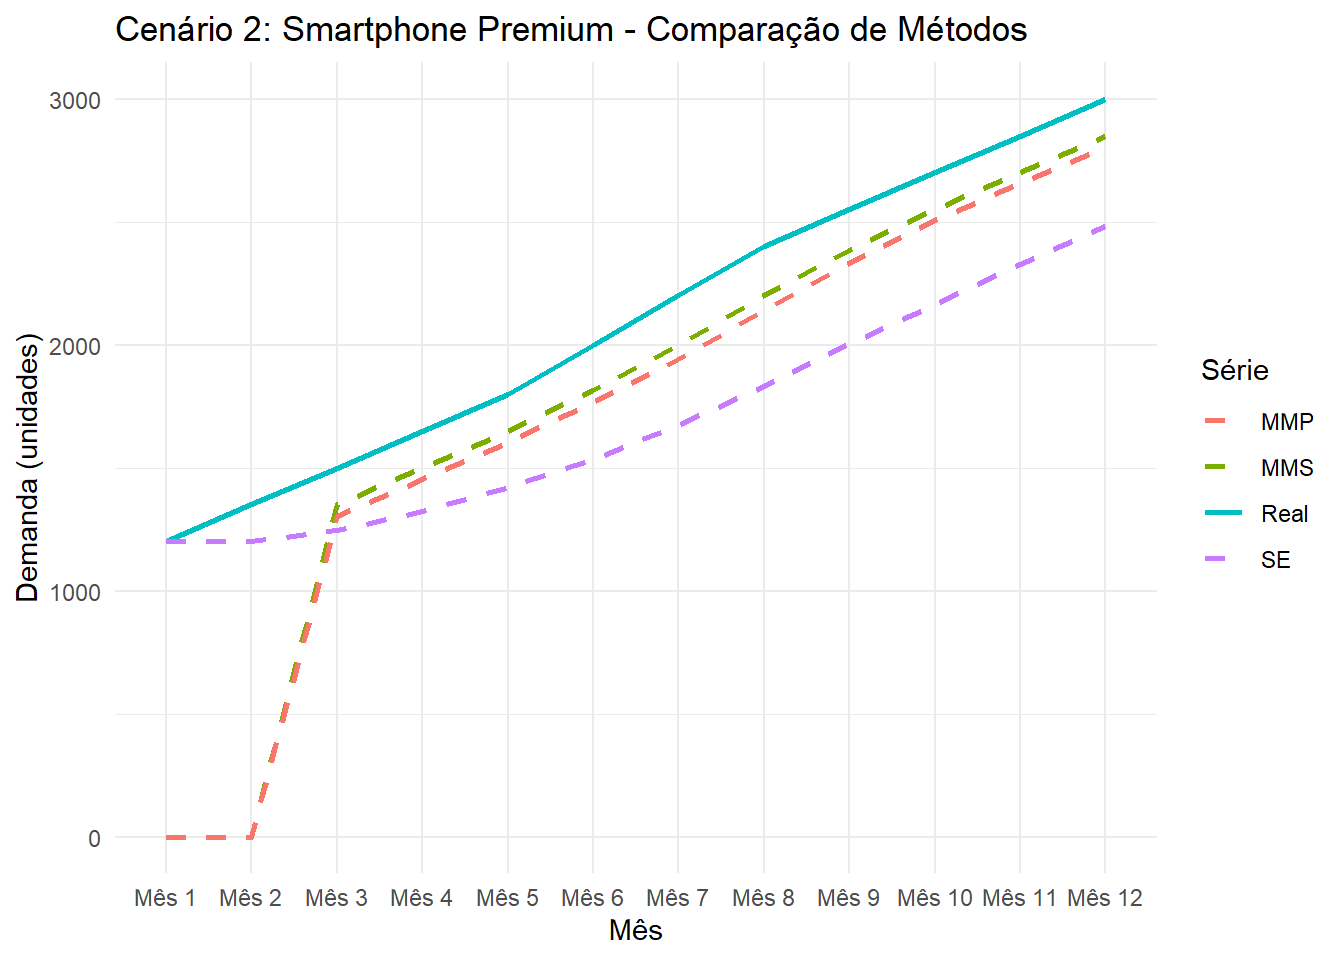
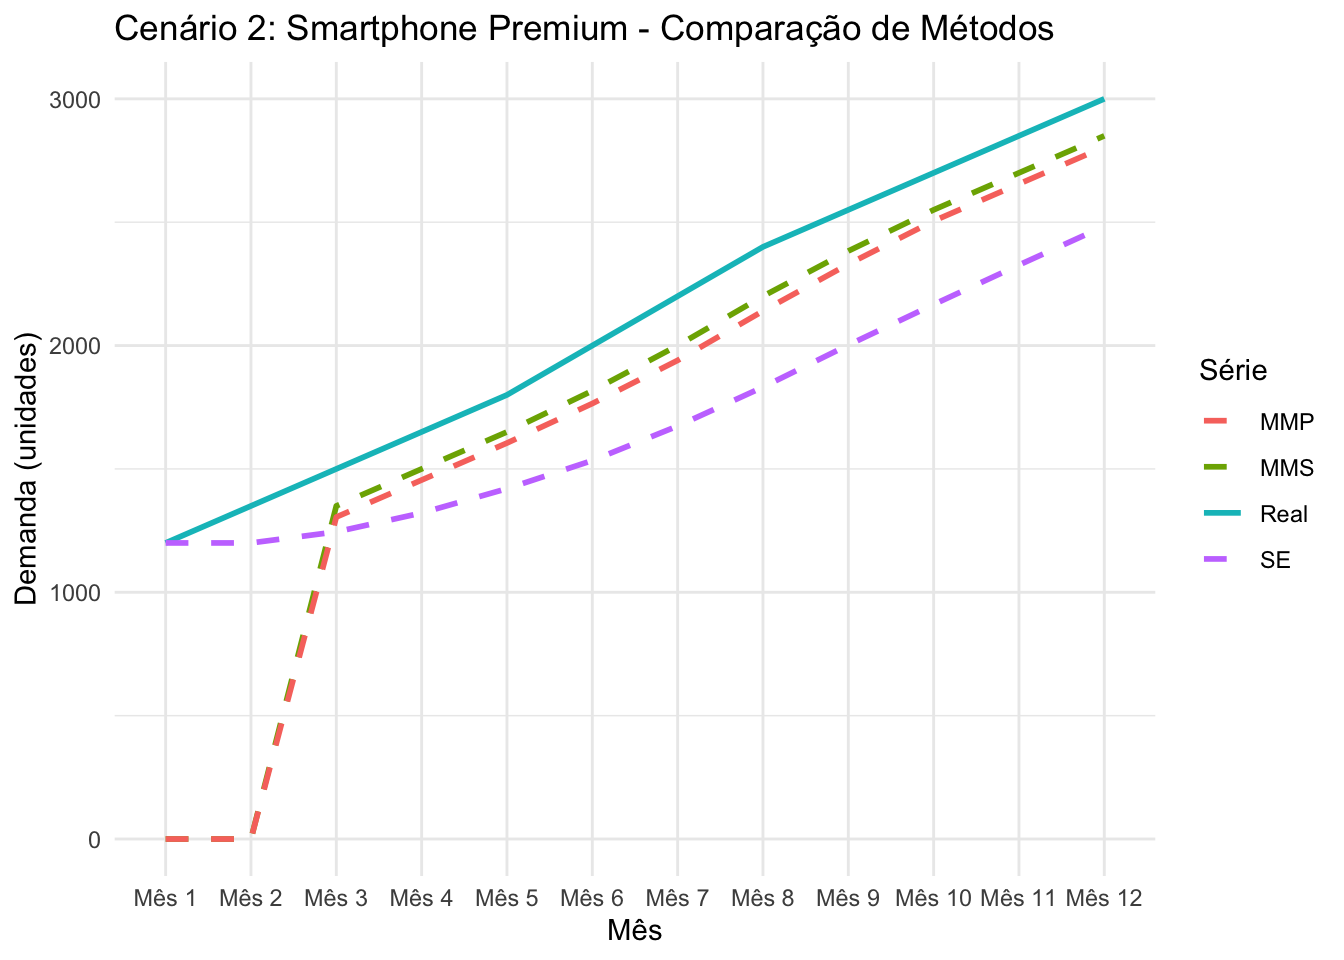
push

diff --git a/content/disciplinas/adm_prod_mat/aa02_02.html b/content/disciplinas/adm_prod_mat/aa02_02.html
@@ -28,9 +28,10 @@ weight: 30
 <pre class="r"><code># LAYOUT DE IMPRESSÃO EM DUAS PÁGINAS - TABELA CORRIGIDA ------------------
 
 library(gridExtra)</code></pre>
+<pre><code>## Warning: package &#39;gridExtra&#39; was built under R version 4.6.1</code></pre>
 <pre><code>## 
-## Anexando pacote: &#39;gridExtra&#39;</code></pre>
-<pre><code>## O seguinte objeto é mascarado por &#39;package:dplyr&#39;:
+## Attaching package: &#39;gridExtra&#39;</code></pre>
+<pre><code>## The following object is masked from &#39;package:dplyr&#39;:
 ## 
 ##     combine</code></pre>
 <pre class="r"><code>library(grid)
@@ -113,34 +114,54 @@ criar_pagina1_calculos &lt;- function(cenario_num, titulo, descricao, dados_reai
 }
 
 # FUNÇÃO PARA PÁGINA 2: GRÁFICO DE PREVISÕES ------------------------------
+#----------------------
 criar_pagina2_grafico &lt;- function(cenario_num, titulo, dados_reais) {
+  
+  # Adicionar o 13º mês para previsão
+  meses_completos &lt;- c(dados_reais$Mês, &quot;M13&quot;)
+  x_breaks &lt;- 1:13
+  x_labels &lt;- meses_completos
+  
+  # Calcular limite y considerando possível aumento na previsão
+  y_max &lt;- max(dados_reais$Demanda_Real) * 1.4
   
   # Criar gráfico com eixos e pontos da demanda real
   grafico_previsoes &lt;- ggplot() +
     # Grade de fundo
     theme_bw() +
     
-    # Eixos e limites
-    scale_x_continuous(breaks = 1:12, labels = dados_reais$Mês, expand = c(0.02, 0.02)) +
-    scale_y_continuous(limits = c(0, max(dados_reais$Demanda_Real) * 1.4)) +
+    # Eixos e limites - agora até 13 meses
+    scale_x_continuous(breaks = 1:13, labels = meses_completos, expand = c(0.02, 0.02)) +
+    scale_y_continuous(limits = c(0, y_max)) +
     
-    # Pontos da demanda real
+    # Pontos da demanda real (apenas até o 12º mês)
     geom_point(aes(x = 1:12, y = dados_reais$Demanda_Real), 
                size = 3, color = &quot;black&quot;, shape = 16) +
     
-    # Linha da demanda real
+    # Linha da demanda real (apenas até o 12º mês)
     geom_line(aes(x = 1:12, y = dados_reais$Demanda_Real), 
               color = &quot;black&quot;, size = 1, linetype = &quot;solid&quot;) +
     
+    # Área sombreada para indicar período de previsão futura (mês 13)
+    annotate(&quot;rect&quot;, xmin = 12.5, xmax = 13.5, ymin = 0, ymax = y_max,
+             fill = &quot;yellow&quot;, alpha = 0.2) +
+    
+    # Linha vertical para separar histórico de previsão
+    geom_vline(xintercept = 12.5, linetype = &quot;dashed&quot;, color = &quot;red&quot;, size = 0.8) +
+    
+    # Texto indicando área de previsão
+    annotate(&quot;text&quot;, x = 12.75, y = y_max * 0.95, 
+             label = &quot;PREVISÃO\nMÊS 13&quot;, 
+             color = &quot;red&quot;, fontface = &quot;bold&quot;, size = 4, hjust = 0.5) +
+    
     # Áreas para desenhar as previsões (linhas tracejadas como guia)
-    geom_hline(yintercept = seq(0, max(dados_reais$Demanda_Real) * 1.3, 
-                               length.out = 10), 
-               color = &quot;gray90&quot;, size = 0.2) +
+    geom_hline(yintercept = seq(0, y_max, length.out = 15), 
+               color = &quot;gray90&quot;, size = 0.1, alpha = 0.5) +
     
     # Títulos e labels
     labs(
       title = paste(&quot;CENÁRIO&quot;, cenario_num, &quot;:&quot;, titulo, &quot;- REGISTRO DAS PREVISÕES&quot;),
-      subtitle = &quot;Demanda Real (linha preta) - Desenhe as previsões usando as cores indicadas&quot;,
+      subtitle = &quot;Demanda Real (linha preta) - Desenhe as previsões incluindo o Mês 13 (previsão futura)&quot;,
       x = &quot;Meses&quot;,
       y = &quot;Demanda&quot;
     ) +
@@ -154,25 +175,32 @@ criar_pagina2_grafico &lt;- function(cenario_num, titulo, dados_reais) {
     ) +
     
     # Legenda interativa para cores
-    annotate(&quot;text&quot;, x = 1, y = max(dados_reais$Demanda_Real) * 1.35, 
+    annotate(&quot;text&quot;, x = 0.5, y = y_max * 0.95, 
              label = &quot;LEGENDA DE CORES:&quot;, hjust = 0, fontface = &quot;bold&quot;, size = 4) +
-    annotate(&quot;text&quot;, x = 1, y = max(dados_reais$Demanda_Real) * 1.30, 
+    annotate(&quot;text&quot;, x = 0.5, y = y_max * 0.90, 
              label = &quot;● MMS (Média Móvel Simples) → Use VERMELHO&quot;, hjust = 0, size = 3.5) +
-    annotate(&quot;text&quot;, x = 1, y = max(dados_reais$Demanda_Real) * 1.26, 
+    annotate(&quot;text&quot;, x = 0.5, y = y_max * 0.86, 
              label = &quot;● MMP (Média Móvel Ponderada) → Use AZUL&quot;, hjust = 0, size = 3.5) +
-    annotate(&quot;text&quot;, x = 1, y = max(dados_reais$Demanda_Real) * 1.22, 
+    annotate(&quot;text&quot;, x = 0.5, y = y_max * 0.82, 
              label = &quot;● SE (Suavização Exponencial) → Use VERDE&quot;, hjust = 0, size = 3.5) +
+    annotate(&quot;text&quot;, x = 0.5, y = y_max * 0.77, 
+             label = &quot;--- Linha pontilhada: Separa histórico de previsão&quot;, 
+             hjust = 0, size = 3, color = &quot;red&quot;) +
     
     # Espaço para anotações
-    annotate(&quot;text&quot;, x = 8, y = max(dados_reais$Demanda_Real) * 1.30, 
+    annotate(&quot;text&quot;, x = 8, y = y_max * 0.95, 
              label = &quot;OBSERVAÇÕES:&quot;, hjust = 0, fontface = &quot;bold&quot;, size = 4) +
-    annotate(&quot;text&quot;, x = 8, y = max(dados_reais$Demanda_Real) * 1.26, 
+    annotate(&quot;text&quot;, x = 8, y = y_max * 0.91, 
              label = &quot;• Qual método acompanhou melhor a demanda?&quot;, hjust = 0, size = 3) +
-    annotate(&quot;text&quot;, x = 8, y = max(dados_reais$Demanda_Real) * 1.20, 
-             label = &quot;• Justifique sua resposta:&quot;, hjust = 0, size = 3)
+    annotate(&quot;text&quot;, x = 8, y = y_max * 0.87, 
+             label = &quot;• Qual previsão para o Mês 13?&quot;, hjust = 0, size = 3) +
+    annotate(&quot;text&quot;, x = 8, y = y_max * 0.83, 
+             label = &quot;• Justifique sua resposta:&quot;, hjust = 0, size = 3) 
+
   
   return(grafico_previsoes)
 }
+
 
 
 # VERSÃO COMBINADA (DUAS PÁGINAS EM UM PDF) -------------------------------
@@ -193,20 +221,8 @@ criar_pdf_completo &lt;- function(cenario_num, titulo, dados_reais, nome_arquivo
 # Gerar PDFs completos
 criar_pdf_completo(2, &quot;Smartphone Premium&quot;, df2, &quot;Cenario2_Smartphone_Completo.pdf&quot;) </code></pre>
 <pre><code>## Warning in grid.Call.graphics(C_text, as.graphicsAnnot(x$label), x$x, x$y, :
-## conversion failure on &#39;FÓRMULAS: MMS = (Dₜ + Dₜ₋₁ + Dₜ₋₂)/3 | MMP = (0.5×Dₜ +
-## 0.3×Dₜ₋₁ + 0.2×Dₜ₋₂) | SE = α×Dₜ + (1-α)×Fₜ&#39; in &#39;mbcsToSbcs&#39;: for ₜ (U+209C)
-## Warning in grid.Call.graphics(C_text, as.graphicsAnnot(x$label), x$x, x$y, :
-## conversion failure on &#39;FÓRMULAS: MMS = (Dₜ + Dₜ₋₁ + Dₜ₋₂)/3 | MMP = (0.5×Dₜ +
-## 0.3×Dₜ₋₁ + 0.2×Dₜ₋₂) | SE = α×Dₜ + (1-α)×Fₜ&#39; in &#39;mbcsToSbcs&#39;: for ₜ (U+209C)</code></pre>
-<pre><code>## Warning in grid.Call.graphics(C_text, as.graphicsAnnot(x$label), x$x, x$y, :
-## conversion failure on &#39;FÓRMULAS: MMS = (Dₜ + Dₜ₋₁ + Dₜ₋₂)/3 | MMP = (0.5×Dₜ +
-## 0.3×Dₜ₋₁ + 0.2×Dₜ₋₂) | SE = α×Dₜ + (1-α)×Fₜ&#39; in &#39;mbcsToSbcs&#39;: for ₋ (U+208B)</code></pre>
-<pre><code>## Warning in grid.Call.graphics(C_text, as.graphicsAnnot(x$label), x$x, x$y, :
-## conversion failure on &#39;FÓRMULAS: MMS = (Dₜ + Dₜ₋₁ + Dₜ₋₂)/3 | MMP = (0.5×Dₜ +
-## 0.3×Dₜ₋₁ + 0.2×Dₜ₋₂) | SE = α×Dₜ + (1-α)×Fₜ&#39; in &#39;mbcsToSbcs&#39;: for ₜ (U+209C)</code></pre>
-<pre><code>## Warning in grid.Call.graphics(C_text, as.graphicsAnnot(x$label), x$x, x$y, :
-## conversion failure on &#39;FÓRMULAS: MMS = (Dₜ + Dₜ₋₁ + Dₜ₋₂)/3 | MMP = (0.5×Dₜ +
-## 0.3×Dₜ₋₁ + 0.2×Dₜ₋₂) | SE = α×Dₜ + (1-α)×Fₜ&#39; in &#39;mbcsToSbcs&#39;: for ₋ (U+208B)</code></pre>
+## conversion failure on &#39; 1. Calcule as previsões usando MMS (n=3), MMP (pesos:
+## 0.5, 0.3, 0.2) e SE (α=0.3)&#39; in &#39;mbcsToSbcs&#39;: for α (U+03B1)</code></pre>
 <pre><code>## Warning in grid.Call.graphics(C_text, as.graphicsAnnot(x$label), x$x, x$y, :
 ## conversion failure on &#39;FÓRMULAS: MMS = (Dₜ + Dₜ₋₁ + Dₜ₋₂)/3 | MMP = (0.5×Dₜ +
 ## 0.3×Dₜ₋₁ + 0.2×Dₜ₋₂) | SE = α×Dₜ + (1-α)×Fₜ&#39; in &#39;mbcsToSbcs&#39;: for ₜ (U+209C)
@@ -218,14 +234,47 @@ criar_pdf_completo(2, &quot;Smartphone Premium&quot;, df2, &quot;Cenario2_Smartp
 ## 0.3×Dₜ₋₁ + 0.2×Dₜ₋₂) | SE = α×Dₜ + (1-α)×Fₜ&#39; in &#39;mbcsToSbcs&#39;: for ₋ (U+208B)</code></pre>
 <pre><code>## Warning in grid.Call.graphics(C_text, as.graphicsAnnot(x$label), x$x, x$y, :
 ## conversion failure on &#39;FÓRMULAS: MMS = (Dₜ + Dₜ₋₁ + Dₜ₋₂)/3 | MMP = (0.5×Dₜ +
+## 0.3×Dₜ₋₁ + 0.2×Dₜ₋₂) | SE = α×Dₜ + (1-α)×Fₜ&#39; in &#39;mbcsToSbcs&#39;: for ₁ (U+2081)</code></pre>
+<pre><code>## Warning in grid.Call.graphics(C_text, as.graphicsAnnot(x$label), x$x, x$y, :
+## conversion failure on &#39;FÓRMULAS: MMS = (Dₜ + Dₜ₋₁ + Dₜ₋₂)/3 | MMP = (0.5×Dₜ +
 ## 0.3×Dₜ₋₁ + 0.2×Dₜ₋₂) | SE = α×Dₜ + (1-α)×Fₜ&#39; in &#39;mbcsToSbcs&#39;: for ₜ (U+209C)</code></pre>
 <pre><code>## Warning in grid.Call.graphics(C_text, as.graphicsAnnot(x$label), x$x, x$y, :
 ## conversion failure on &#39;FÓRMULAS: MMS = (Dₜ + Dₜ₋₁ + Dₜ₋₂)/3 | MMP = (0.5×Dₜ +
 ## 0.3×Dₜ₋₁ + 0.2×Dₜ₋₂) | SE = α×Dₜ + (1-α)×Fₜ&#39; in &#39;mbcsToSbcs&#39;: for ₋ (U+208B)</code></pre>
 <pre><code>## Warning in grid.Call.graphics(C_text, as.graphicsAnnot(x$label), x$x, x$y, :
 ## conversion failure on &#39;FÓRMULAS: MMS = (Dₜ + Dₜ₋₁ + Dₜ₋₂)/3 | MMP = (0.5×Dₜ +
+## 0.3×Dₜ₋₁ + 0.2×Dₜ₋₂) | SE = α×Dₜ + (1-α)×Fₜ&#39; in &#39;mbcsToSbcs&#39;: for ₂ (U+2082)</code></pre>
+<pre><code>## Warning in grid.Call.graphics(C_text, as.graphicsAnnot(x$label), x$x, x$y, :
+## conversion failure on &#39;FÓRMULAS: MMS = (Dₜ + Dₜ₋₁ + Dₜ₋₂)/3 | MMP = (0.5×Dₜ +
 ## 0.3×Dₜ₋₁ + 0.2×Dₜ₋₂) | SE = α×Dₜ + (1-α)×Fₜ&#39; in &#39;mbcsToSbcs&#39;: for ₜ (U+209C)
 ## Warning in grid.Call.graphics(C_text, as.graphicsAnnot(x$label), x$x, x$y, :
+## conversion failure on &#39;FÓRMULAS: MMS = (Dₜ + Dₜ₋₁ + Dₜ₋₂)/3 | MMP = (0.5×Dₜ +
+## 0.3×Dₜ₋₁ + 0.2×Dₜ₋₂) | SE = α×Dₜ + (1-α)×Fₜ&#39; in &#39;mbcsToSbcs&#39;: for ₜ (U+209C)</code></pre>
+<pre><code>## Warning in grid.Call.graphics(C_text, as.graphicsAnnot(x$label), x$x, x$y, :
+## conversion failure on &#39;FÓRMULAS: MMS = (Dₜ + Dₜ₋₁ + Dₜ₋₂)/3 | MMP = (0.5×Dₜ +
+## 0.3×Dₜ₋₁ + 0.2×Dₜ₋₂) | SE = α×Dₜ + (1-α)×Fₜ&#39; in &#39;mbcsToSbcs&#39;: for ₋ (U+208B)</code></pre>
+<pre><code>## Warning in grid.Call.graphics(C_text, as.graphicsAnnot(x$label), x$x, x$y, :
+## conversion failure on &#39;FÓRMULAS: MMS = (Dₜ + Dₜ₋₁ + Dₜ₋₂)/3 | MMP = (0.5×Dₜ +
+## 0.3×Dₜ₋₁ + 0.2×Dₜ₋₂) | SE = α×Dₜ + (1-α)×Fₜ&#39; in &#39;mbcsToSbcs&#39;: for ₁ (U+2081)</code></pre>
+<pre><code>## Warning in grid.Call.graphics(C_text, as.graphicsAnnot(x$label), x$x, x$y, :
+## conversion failure on &#39;FÓRMULAS: MMS = (Dₜ + Dₜ₋₁ + Dₜ₋₂)/3 | MMP = (0.5×Dₜ +
+## 0.3×Dₜ₋₁ + 0.2×Dₜ₋₂) | SE = α×Dₜ + (1-α)×Fₜ&#39; in &#39;mbcsToSbcs&#39;: for ₜ (U+209C)</code></pre>
+<pre><code>## Warning in grid.Call.graphics(C_text, as.graphicsAnnot(x$label), x$x, x$y, :
+## conversion failure on &#39;FÓRMULAS: MMS = (Dₜ + Dₜ₋₁ + Dₜ₋₂)/3 | MMP = (0.5×Dₜ +
+## 0.3×Dₜ₋₁ + 0.2×Dₜ₋₂) | SE = α×Dₜ + (1-α)×Fₜ&#39; in &#39;mbcsToSbcs&#39;: for ₋ (U+208B)</code></pre>
+<pre><code>## Warning in grid.Call.graphics(C_text, as.graphicsAnnot(x$label), x$x, x$y, :
+## conversion failure on &#39;FÓRMULAS: MMS = (Dₜ + Dₜ₋₁ + Dₜ₋₂)/3 | MMP = (0.5×Dₜ +
+## 0.3×Dₜ₋₁ + 0.2×Dₜ₋₂) | SE = α×Dₜ + (1-α)×Fₜ&#39; in &#39;mbcsToSbcs&#39;: for ₂ (U+2082)</code></pre>
+<pre><code>## Warning in grid.Call.graphics(C_text, as.graphicsAnnot(x$label), x$x, x$y, :
+## conversion failure on &#39;FÓRMULAS: MMS = (Dₜ + Dₜ₋₁ + Dₜ₋₂)/3 | MMP = (0.5×Dₜ +
+## 0.3×Dₜ₋₁ + 0.2×Dₜ₋₂) | SE = α×Dₜ + (1-α)×Fₜ&#39; in &#39;mbcsToSbcs&#39;: for α (U+03B1)</code></pre>
+<pre><code>## Warning in grid.Call.graphics(C_text, as.graphicsAnnot(x$label), x$x, x$y, :
+## conversion failure on &#39;FÓRMULAS: MMS = (Dₜ + Dₜ₋₁ + Dₜ₋₂)/3 | MMP = (0.5×Dₜ +
+## 0.3×Dₜ₋₁ + 0.2×Dₜ₋₂) | SE = α×Dₜ + (1-α)×Fₜ&#39; in &#39;mbcsToSbcs&#39;: for ₜ (U+209C)</code></pre>
+<pre><code>## Warning in grid.Call.graphics(C_text, as.graphicsAnnot(x$label), x$x, x$y, :
+## conversion failure on &#39;FÓRMULAS: MMS = (Dₜ + Dₜ₋₁ + Dₜ₋₂)/3 | MMP = (0.5×Dₜ +
+## 0.3×Dₜ₋₁ + 0.2×Dₜ₋₂) | SE = α×Dₜ + (1-α)×Fₜ&#39; in &#39;mbcsToSbcs&#39;: for α (U+03B1)</code></pre>
+<pre><code>## Warning in grid.Call.graphics(C_text, as.graphicsAnnot(x$label), x$x, x$y, :
 ## conversion failure on &#39;FÓRMULAS: MMS = (Dₜ + Dₜ₋₁ + Dₜ₋₂)/3 | MMP = (0.5×Dₜ +
 ## 0.3×Dₜ₋₁ + 0.2×Dₜ₋₂) | SE = α×Dₜ + (1-α)×Fₜ&#39; in &#39;mbcsToSbcs&#39;: for ₜ (U+209C)</code></pre>
 <pre><code>## Warning in grid.Call.graphics(C_text, as.graphicsAnnot(x$label), x$x, x$y, :
@@ -246,5 +295,13 @@ criar_pdf_completo(2, &quot;Smartphone Premium&quot;, df2, &quot;Cenario2_Smartp
 <pre><code>## Warning in grid.Call.graphics(C_text, as.graphicsAnnot(x$label), x$x, x$y, :
 ## for &#39;● SE (Suavização Exponencial) → Use VERDE&#39; in &#39;mbcsToSbcs&#39;: -&gt; substituted
 ## for → (U+2192)</code></pre>
-<pre><code>## png 
-##   2</code></pre>
+<pre><code>## Warning in grid.Call.graphics(C_text, as.graphicsAnnot(x$label), x$x, x$y, :
+## for &#39;• Qual método acompanhou melhor a demanda?&#39; in &#39;mbcsToSbcs&#39;: . substituted
+## for • (U+2022)</code></pre>
+<pre><code>## Warning in grid.Call.graphics(C_text, as.graphicsAnnot(x$label), x$x, x$y, :
+## for &#39;• Qual previsão para o Mês 13?&#39; in &#39;mbcsToSbcs&#39;: . substituted for •
+## (U+2022)</code></pre>
+<pre><code>## Warning in grid.Call.graphics(C_text, as.graphicsAnnot(x$label), x$x, x$y, :
+## for &#39;• Justifique sua resposta:&#39; in &#39;mbcsToSbcs&#39;: . substituted for • (U+2022)</code></pre>
+<pre><code>## quartz_off_screen 
+##                 2</code></pre>

diff --git a/content/disciplinas/adm_prod_mat/aa02.html b/content/disciplinas/adm_prod_mat/aa02.html
@@ -1,6 +1,6 @@
 ---
 date: "2023-03-235T00:00:00+01:00"
-draft: false
+draft: true
 menu:
   adm_prod_mat:
     parent: Atividades de aprendizagem

diff --git a/content/disciplinas/adm_prod_mat/aa03.html b/content/disciplinas/adm_prod_mat/aa03.html
@@ -1,6 +1,6 @@
 ---
 date: "2023-03-235T00:00:00+01:00"
-draft: false
+draft: true
 menu:
   adm_prod_mat:
     parent: Atividades de aprendizagem

diff --git a/content/disciplinas/adm_prod_mat/aa04.html b/content/disciplinas/adm_prod_mat/aa04.html
@@ -1,6 +1,6 @@
 ---
 date: "2023-03-235T00:00:00+01:00"
-draft: false
+draft: true
 menu:
   adm_prod_mat:
     parent: Atividades de aprendizagem

diff --git a/content/disciplinas/adm_prod_mat/aa05.html b/content/disciplinas/adm_prod_mat/aa05.html
@@ -1,6 +1,6 @@
 ---
 date: "2023-03-235T00:00:00+01:00"
-draft: false
+draft: true
 menu:
   adm_prod_mat:
     parent: Atividades de aprendizagem

diff --git a/content/disciplinas/adm_prod_mat/aa06.html b/content/disciplinas/adm_prod_mat/aa06.html
@@ -1,6 +1,6 @@
 ---
 date: "2023-03-235T00:00:00+01:00"
-draft: false
+draft: true
 menu:
   adm_prod_mat:
     parent: Atividades de aprendizagem

diff --git a/content/disciplinas/adm_prod_mat/aula02.html b/content/disciplinas/adm_prod_mat/aula02.html
@@ -1,6 +1,6 @@
 ---
 date: "2025-09-09T00:00:00+01:00"
-draft: false
+draft: true
 menu:
   adm_prod_mat:
     parent: Aulas

diff --git a/content/disciplinas/adm_prod_mat/aula03.html b/content/disciplinas/adm_prod_mat/aula03.html
@@ -1,6 +1,6 @@
 ---
 date: "2025-09-09T00:00:00+01:00"
-draft: False
+draft: true
 menu:
   adm_prod_mat:
     parent: Aulas

diff --git a/content/disciplinas/adm_prod_mat/aula04.html b/content/disciplinas/adm_prod_mat/aula04.html
@@ -1,6 +1,6 @@
 ---
 date: "2025-09-09T00:00:00+01:00"
-draft: false
+draft: true
 menu:
   adm_prod_mat:
     parent: Aulas

diff --git a/content/disciplinas/adm_prod_mat/aula05.html b/content/disciplinas/adm_prod_mat/aula05.html
@@ -1,6 +1,6 @@
 ---
 date: "2025-09-09T00:00:00+01:00"
-draft: false
+draft: true
 menu:
   adm_prod_mat:
     parent: Aulas

diff --git a/content/disciplinas/adm_prod_mat/aula06.html b/content/disciplinas/adm_prod_mat/aula06.html
@@ -1,6 +1,6 @@
 ---
 date: "2025-09-09T00:00:00+01:00"
-draft: false
+draft: true
 menu:
   adm_prod_mat:
     parent: Aulas
